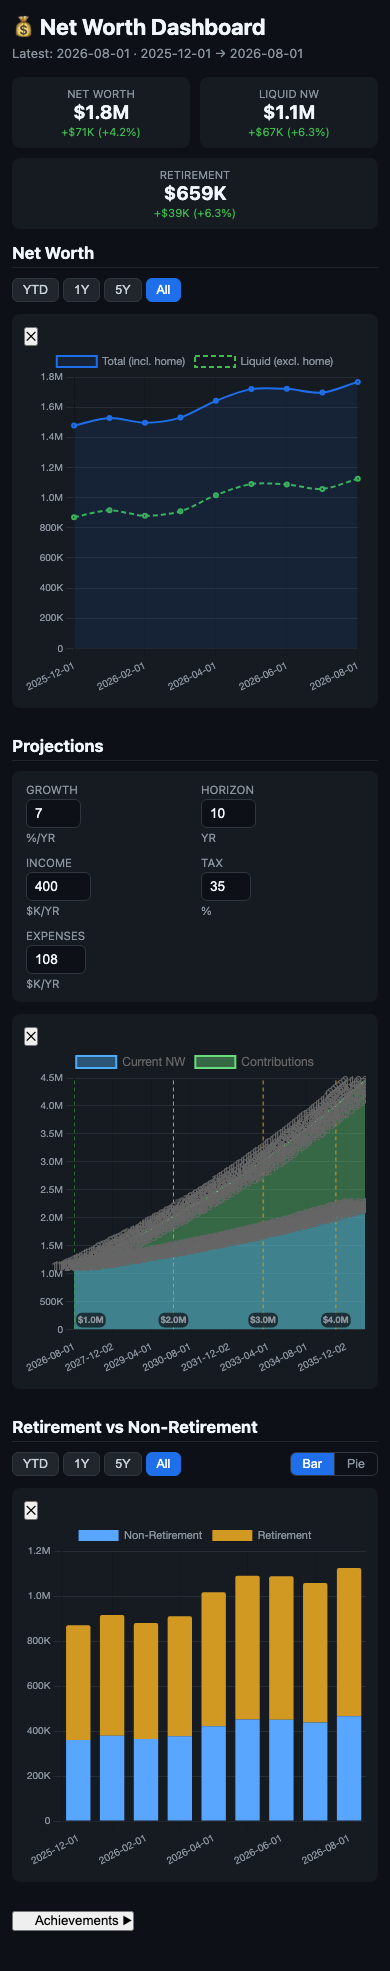
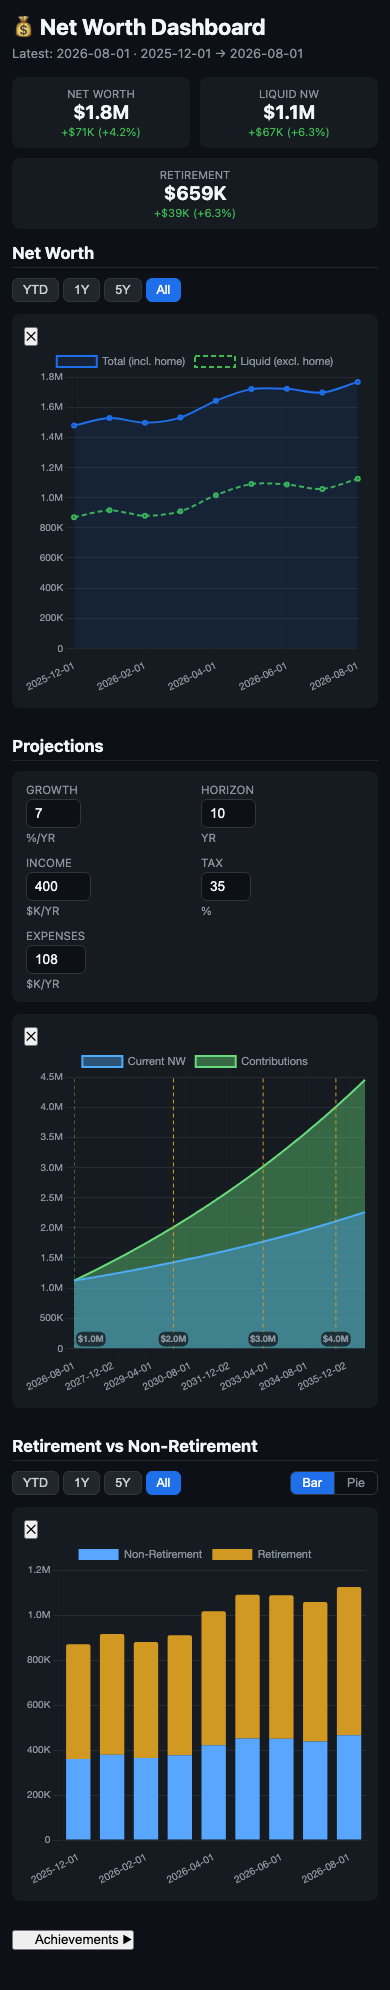
fix: projection chart plugins merge baseOpts (datalabels disabled) instead of replacing entirely

diff --git a/docs/index.html b/docs/index.html
@@ -178,7 +178,7 @@
 </div>
 
 <script>
[2 lines of base64/hex data omitted]
 Chart.register(ChartDataLabels);
 
 function sha256(str) {
@@ -333,7 +333,7 @@ function drawProjectionsFn() {
         x: { ticks: { color: '#8b949e', font: { size: 10 }, maxTicksLimit: 8 } },
         y: { stacked: true, min: 0, ticks: { color: '#8b949e', font: { size: 10 }, callback: v => fmtShort(v) }, grid: { color: 'rgba(201,209,217,0.1)' } }
       },
-      plugins: { annotation: { annotations } },
+      plugins: { ...baseOpts().plugins, annotation: { annotations } },
     },
   });
 }

diff --git a/templates/index.html b/templates/index.html
@@ -333,7 +333,7 @@ function drawProjectionsFn() {
         x: { ticks: { color: '#8b949e', font: { size: 10 }, maxTicksLimit: 8 } },
         y: { stacked: true, min: 0, ticks: { color: '#8b949e', font: { size: 10 }, callback: v => fmtShort(v) }, grid: { color: 'rgba(201,209,217,0.1)' } }
       },
-      plugins: { annotation: { annotations } },
+      plugins: { ...baseOpts().plugins, annotation: { annotations } },
     },
   });
 }
